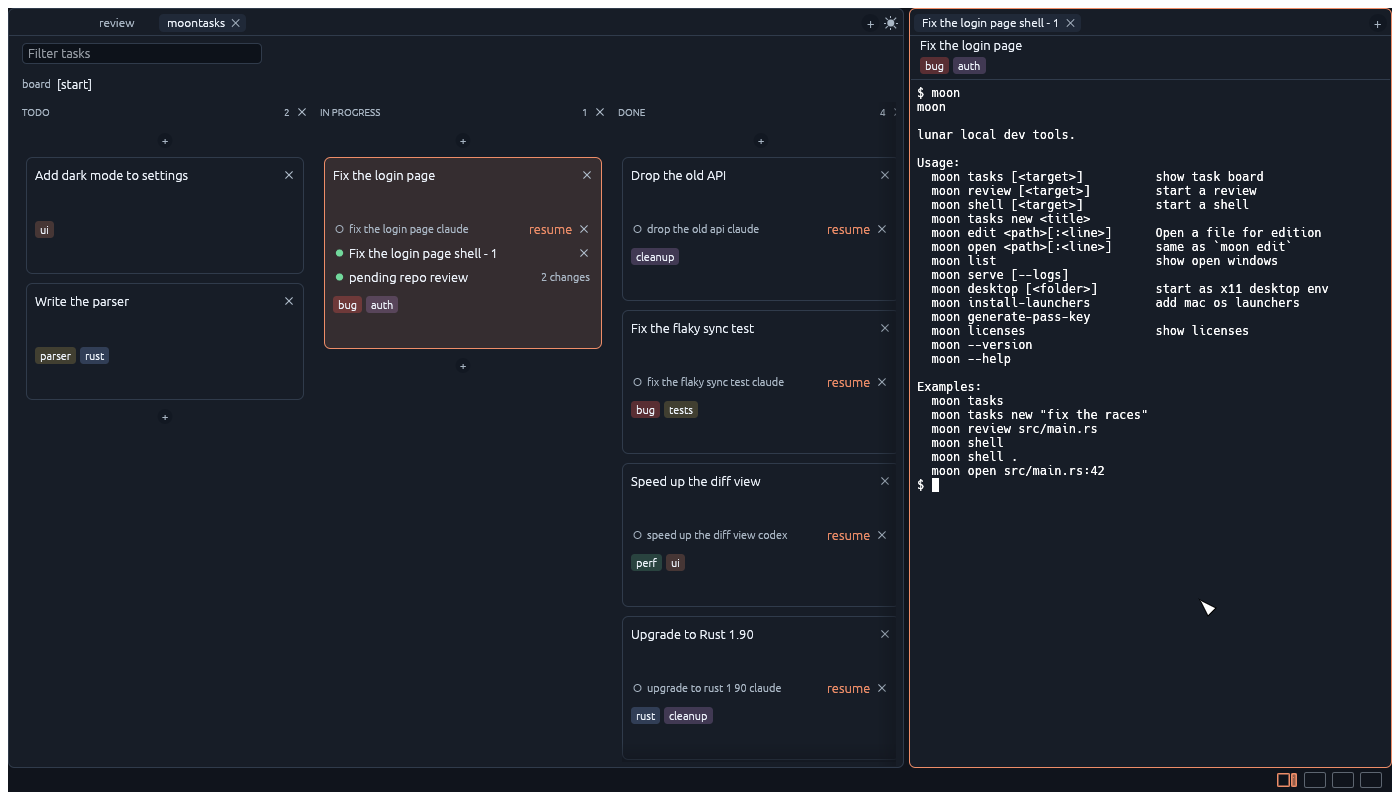
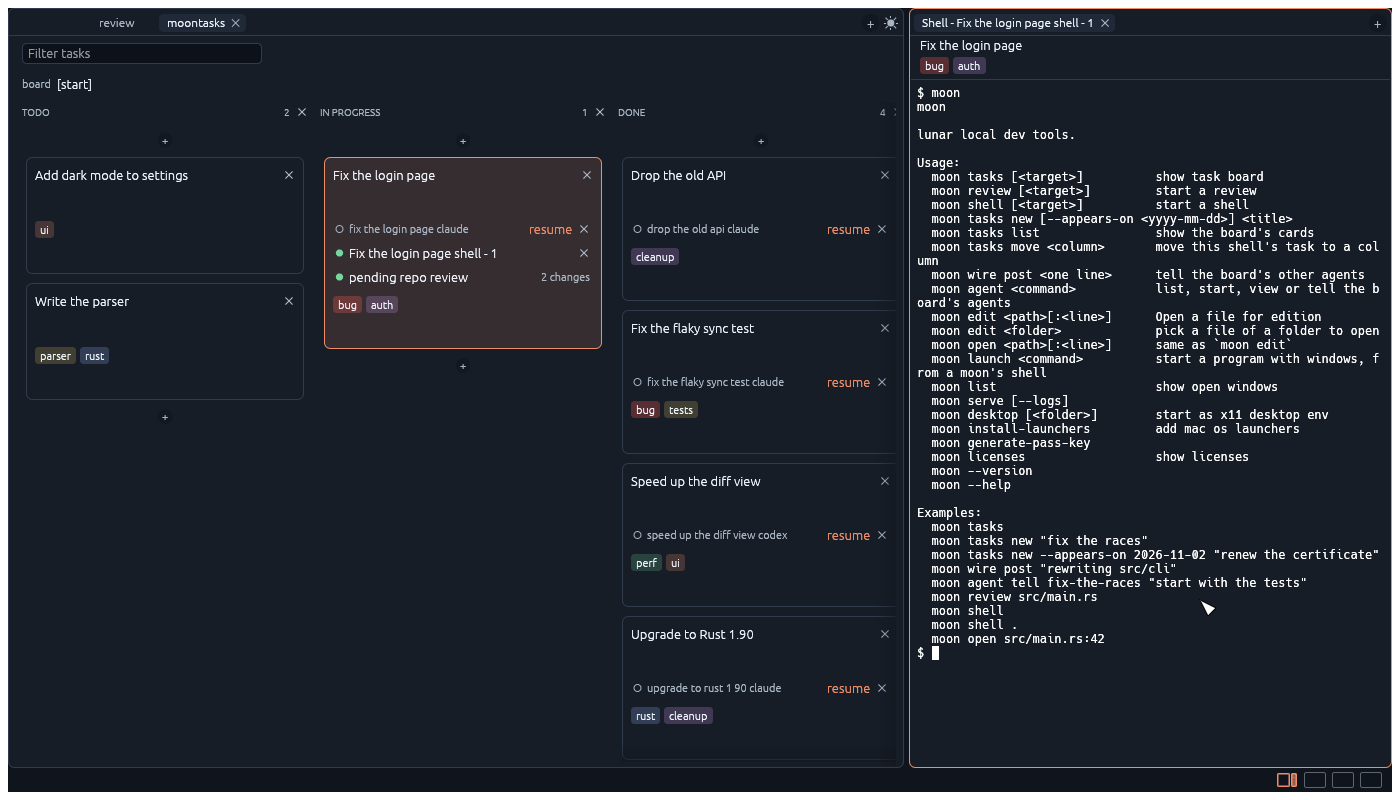
feat(agents): add Minerve as a coding agent
Minerve can now be picked anywhere the other agents can: Moonreview dispatch with `minerve --print`, availability and login detection through `.minerve/auth.json`, moontasks launch and resume with `--append-system-prompt` and `--resume`, palette commands, pane titles and a violet agent colour. The README now lists Minerve beside Claude, Codex, OpenCode and Pi.

Changed region(s): [[0.645, 0.25, 0.9829, 0.8125], [0.6757, 0.0, 0.7679, 0.0312]]

diff --git a/src/agent.rs b/src/agent.rs
@@ -35,6 +35,7 @@ pub(crate) fn run_agent_dispatch(job: &DispatchJob, model: Option<&str>) -> Resu
         AgentKind::Codex => run_codex(prompt, job, model),
         AgentKind::OpenCode => run_opencode(prompt, job, model),
         AgentKind::Pi => run_pi(prompt, job, model),
+        AgentKind::Minerve => run_minerve(prompt, job, model),
     }
 }
 
@@ -173,6 +174,27 @@ fn run_pi(prompt: String, job: &DispatchJob, model: Option<&str>) -> Result<Stri
             Arc::clone(&job.log),
         )?;
     summarize_agent_output("Pi", output)
+}
+
+fn run_minerve(prompt: String, job: &DispatchJob, model: Option<&str>) -> Result<String> {
+    let mut command = crate::shell_path::installed_tool("minerve")?;
+    command
+        .current_dir(&job.repo_path)
+        .arg("--print")
+        .args(model_args(AgentKind::Minerve, model));
+    configure_agent_command(&mut command);
+    let output = command
+        .spawn()
+        .context("failed to start Minerve")?
+        .wait_with_streamed_output_from_stdin(
+            prompt.as_bytes(),
+            "failed to write prompt to Minerve",
+            "[moonreview] Minerve stdout: ",
+            "[moonreview] Minerve stderr: ",
+            Arc::clone(&job.cancel_token),
+            Arc::clone(&job.log),
+        )?;
+    summarize_agent_output("Minerve", output)
 }
 
 /// The pipes an agent is talked to through, and a process group of its own, which is what
@@ -383,6 +405,7 @@ pub(crate) fn detect_agent_availability_on(
         codex: command_exists_on(path, "codex"),
         opencode: command_exists_on(path, "opencode"),
         pi: command_exists_on(path, "pi"),
+        minerve: command_exists_on(path, "minerve"),
     }
 }
 
@@ -396,6 +419,7 @@ pub(crate) fn agent_is_available(
         crate::api::AgentKind::Codex => availability.codex,
         crate::api::AgentKind::OpenCode => availability.opencode,
         crate::api::AgentKind::Pi => availability.pi,
+        crate::api::AgentKind::Minerve => availability.minerve,
     }
 }
 
@@ -408,6 +432,7 @@ pub(crate) fn agent_options(
         (crate::api::AgentKind::Codex, "Codex"),
         (crate::api::AgentKind::OpenCode, "OpenCode"),
         (crate::api::AgentKind::Pi, "Pi"),
+        (crate::api::AgentKind::Minerve, "Minerve"),
     ]
     .into_iter()
     .map(|(kind, label)| crate::api::AgentOption {

diff --git a/src/agent_sessions/logins.rs b/src/agent_sessions/logins.rs
@@ -53,6 +53,11 @@ const AGENT_LOGINS: &[AgentLogin] = &[
         // Pi has no command that logs in: it is asked from inside, with `/login`.
         log_in_command: "pi",
     },
+    AgentLogin {
+        agent: AgentKind::Minerve,
+        credentials: ".minerve/auth.json",
+        log_in_command: "minerve login",
+    },
 ];
 
 /// Which agents the owner of this home has installed.
@@ -125,6 +130,7 @@ mod tests {
             codex: true,
             opencode: true,
             pi: false,
+            minerve: false,
         });
 
         for option in &mut options {
@@ -153,6 +159,7 @@ mod tests {
                     Some("opencode auth login")
                 ),
                 (AgentKind::Pi, None, None),
+                (AgentKind::Minerve, None, None),
             ]
         );
 

diff --git a/src/agent_programs.rs b/src/agent_programs.rs
@@ -21,7 +21,7 @@ pub(crate) struct AgentProgram {
 }
 
 /// No tools, no permissions to skip: an answer read off a prompt is all these are asked for.
-const AGENT_PROGRAMS: [AgentProgram; 4] = [
+const AGENT_PROGRAMS: [AgentProgram; 5] = [
     AgentProgram {
         agent: AgentKind::Claude,
         program: "claude",
@@ -46,6 +46,13 @@ const AGENT_PROGRAMS: [AgentProgram; 4] = [
     AgentProgram {
         agent: AgentKind::Pi,
         program: "pi",
+        answer_args: &["--print"],
+        after_model: &[],
+        model_flag: "--model",
+    },
+    AgentProgram {
+        agent: AgentKind::Minerve,
+        program: "minerve",
         answer_args: &["--print"],
         after_model: &[],
         model_flag: "--model",

diff --git a/src/terminal/spawning.rs b/src/terminal/spawning.rs
@@ -50,6 +50,7 @@ impl TerminalRegistry {
             TerminalProgram::Agent(AgentKind::Codex) => ("codex".to_string(), Vec::new()),
             TerminalProgram::Agent(AgentKind::OpenCode) => ("opencode".to_string(), Vec::new()),
             TerminalProgram::Agent(AgentKind::Pi) => ("pi".to_string(), Vec::new()),
+            TerminalProgram::Agent(AgentKind::Minerve) => ("minerve".to_string(), Vec::new()),
         };
         // Every agent moon starts is told to say through the terminal when it wants a
         // person, the way it would tell iTerm2 or Ghostty - which is what the window reads

diff --git a/src/native/panes.rs b/src/native/panes.rs
@@ -207,6 +207,7 @@ impl Pane {
                 Some(AgentKind::Codex) => "codex".to_string(),
                 Some(AgentKind::OpenCode) => "opencode".to_string(),
                 Some(AgentKind::Pi) => "pi".to_string(),
+                Some(AgentKind::Minerve) => "minerve".to_string(),
                 _ => "terminal".to_string(),
             },
             // The name alone: the path is on the pane's own header and on the tab's hover. A

diff --git a/src/moontasks/task_processes.rs b/src/moontasks/task_processes.rs
@@ -99,6 +99,13 @@ pub(crate) const AGENT_LAUNCHES: &[AgentLaunch] = &[
         env: &[],
     },
     AgentLaunch {
+        kind: AgentKind::Minerve,
+        start: &["--append-system-prompt", "{brief}"],
+        resume: &["--resume"],
+        attach: &["--resume={session}"],
+        env: &[],
+    },
+    AgentLaunch {
         kind: AgentKind::OpenCode,
         start: &[],
         resume: &["--continue"],

diff --git a/src/native/palette/commands.rs b/src/native/palette/commands.rs
@@ -26,6 +26,7 @@ const AGENT_COMMANDS: &[(AgentKind, &str, &str)] = &[
     (AgentKind::Claude, "claude", "Open Claude in a terminal"),
     (AgentKind::Codex, "codex", "Open Codex in a terminal"),
     (AgentKind::Pi, "pi", "Open Pi in a terminal"),
+    (AgentKind::Minerve, "minerve", "Open Minerve in a terminal"),
 ];
 
 /// The sides the palette can split the active frame against, and the shell each split opens

diff --git a/src/native/palette/drawing.rs b/src/native/palette/drawing.rs
@@ -84,6 +84,7 @@ const AGENT_INKS: &[(crate::api::AgentKind, Color32)] = &[
     (crate::api::AgentKind::Codex, Color32::from_rgb(0x7f, 0xc8, 0xf8)),
     (crate::api::AgentKind::OpenCode, Color32::from_rgb(0x5b, 0x8d, 0xef)),
     (crate::api::AgentKind::Pi, Color32::from_rgb(0xea, 0xb6, 0x5d)),
+    (crate::api::AgentKind::Minerve, Color32::from_rgb(0xa7, 0x8b, 0xfa)),
 ];
 
 /// An agent's colour.

diff --git a/src/api.rs b/src/api.rs
@@ -183,6 +183,7 @@ pub(crate) enum AgentKind {
     Codex,
     OpenCode,
     Pi,
+    Minerve,
 }
 
 impl AgentKind {
@@ -193,6 +194,7 @@ impl AgentKind {
             Self::Codex => "Codex",
             Self::OpenCode => "OpenCode",
             Self::Pi => "Pi",
+            Self::Minerve => "Minerve",
         }
     }
 }

diff --git a/src/api/server_state.rs b/src/api/server_state.rs
@@ -255,6 +255,8 @@ pub(crate) struct AgentAvailability {
     pub(crate) opencode: bool,
     #[serde(default)]
     pub(crate) pi: bool,
+    #[serde(default)]
+    pub(crate) minerve: bool,
 }
 
 pub(crate) fn stable_id<T: Hash>(value: &T) -> String {

diff --git a/README.md b/README.md
@@ -23,7 +23,7 @@ columns as work progresses.
 
 **Moonreview** is the review frame. It shows git hunks and lets you comment, stage or unstage
 them individually, then commit and push what you staged from a pane beside the review. Send
-comments to your local Claude, Codex, OpenCode or Pi coding agent.
+comments to your local Claude, Codex, OpenCode, Pi or Minerve coding agent.
 
 ## Quick install
 
